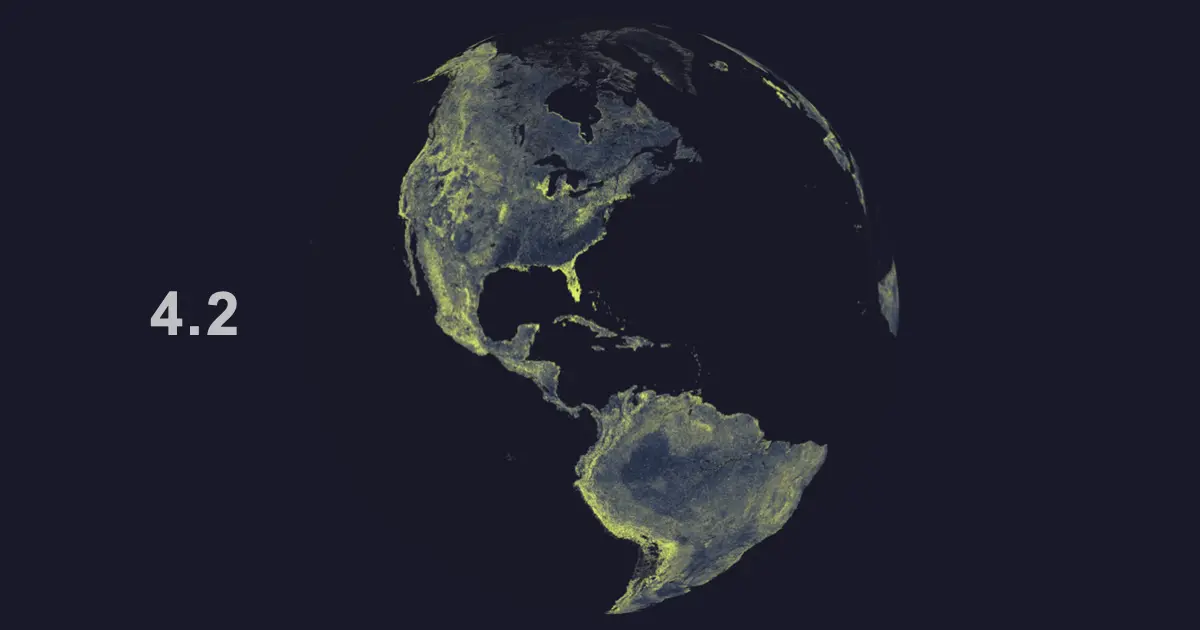
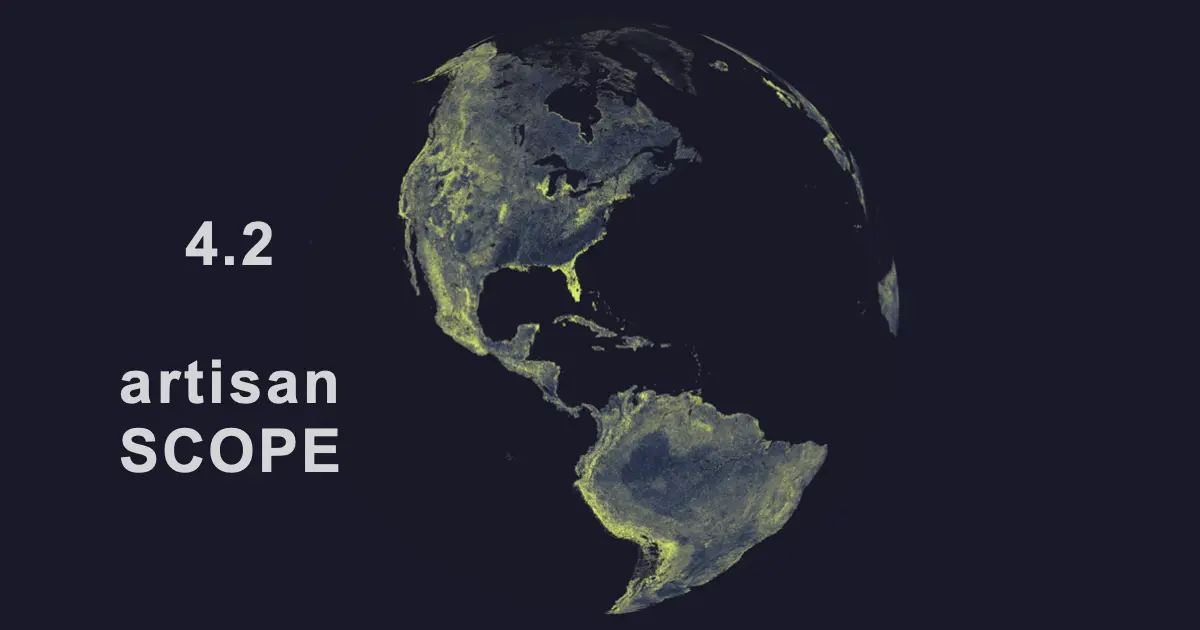
v4.2

Changed region(s): [[0.0925, 0.573, 0.2775, 0.754], [0.1542, 0.3317, 0.2467, 0.4222], [0.1233, 0.4524, 0.2158, 0.5429]]

diff --git a/index.html b/index.html
@@ -7,7 +7,7 @@ header:
   overlay_image: /assets/images/teaser.webp
   show_overlay_title: false
   caption: #'doubleshot'
-excerpt: 'v4.0.2{::nomarkdown}<iframe title="Artisan Version" style="display: inline-block;"  frameborder="0" scrolling="0" width="60px" height="120px"></iframe>{:/nomarkdown}'
+excerpt: 'v4.2.0{::nomarkdown}<iframe title="Artisan Version" style="display: inline-block;"  frameborder="0" scrolling="0" width="60px" height="120px"></iframe>{:/nomarkdown}'
 intro:
   - excerpt: '[<span style="color: #4C97C3;">sign up for <b>artisan.plus</b></span>](https://artisan.plus/en/register) <span style="color: #4C97C3;">
 <BR><BR>[Install Now](/download/){: .btn .btn--success .btn--large} &ensp; [Guide](/docs/quick-start-guide/){: .btn .btn--success .btn--large}

diff --git a/_posts/2026-06-30-Artisan-v4.2.md b/_posts/2026-06-30-Artisan-v4.2.md
@@ -1,0 +1,127 @@
+---
+header:
+  image: /assets/images/posts/2026-06-30-Artisan-v4.2.webp
+  teaser: /assets/images/posts/2026-06-30-Artisan-v4.2-teaser.webp
+  og_image: /assets/images/posts/2026-06-30-Artisan-v4.2-teaser.webp
+title: "Artisan v4.2"
+excerpt: "New Release"
+author_profile: false
+date: 2026-06-30
+categories:
+  - release
+tags:
+  - artisan
+  - artisan.plus
+link: https://artisan-scope.org/
+---
+
+This release has been sponsored by [LABEL!STEN](https://labelisten.com/). The number one digital packaging solution for coffee roasters. They have no minimum order quantity and deliver lightning fast.
+
+<a href="https://labelisten.com/">
+<img src="{{ site.baseurl }}/assets/images/labelisten-logo.svg" width="60%"></a>
+{: .text-center}
+
+[Orbiter](https://orbiter.coffee/) served as a machine sponsor. They produce the beautiful Orbiter OB-1 PRO 1.2kg electric Smart Roaster, which is now fully supported by Artisan. 
+
+<a href="https://orbiter.coffee/">
+<img src="{{ site.baseurl }}/assets/images/orbiter-logo.svg" width="60%"></a>
+{: .text-center}
+
+
+The following individuals and operations (in no particular order) did support the development of this version with their donations:   
+
+<sub>
+*Theodore Griffith, Edward Manz, Gary Tree, Daniel Oliver, [OKRO Roastery](https://www.instagram.com/okroroastery/){:target="_blank"}, Bart and Jill Milner, [juliendefago-lab](https://github.com/juliendefago-lab){:target="_blank"}, Jose Paez Rodriguez, Nattapong Thaipanit, Mark Bush, Ars Antiqua Audio, Fumihito Shiono ([THE COFFEESHOP](https://www.thecoffeeshop.jp){:target="_blank"}), Eberhard König, Erick Jose Lopez Arteta, Alex Kolankiewicz, David Stomski, Nelson Lourenco, Jeffrey Gregory, Michael Hays, Derek Arnold, Mohamed Noor, Richard Fox, Jose Alvarez ([Literal Coffee](https://www.instagram.com/literalcoffee/){:target="_blank"}), Joseph ([D'Leon](https://dleoncoffee.com/){:target="_blank"}), [Vanik922](https://github.com/Vanik922){:target="_blank"}, Scott MacLeod, Lisamarie and Andrew ([Howlin Owl Roasters](https://www.howlinowlcoffee.com/){:target="_blank"}), Jorge Andres Duque Zuluaga ([Colombia Finca la Fe ML/Les](https://www.instagram.com/finca_lafe_colombia/){:target="_blank"}), Graham Lamb, Cricket Cerino Burget ([Fabo Koffie](https://fabokoffie.be/){:target="_blank"}), Suzanne Cabral, Linda Licht, Jose Maria Fernandez, Danila Giarola and Roberto Carlos Bernardo Rocha ([Cafeteria Terroir Mineiro](https://www.instagram.com/cafeteriaterroirmineiro/){:target="_blank"}), Justin Gaudoin, Erik Herrmann, William James, Richard Williams, Gianfranco Azzarone, Eric Dreher, Nick Batcheller and Don Batcheller ([Rainshadow Coffee Roasting Company](https://www.rainshadowcoffee.com/){:target="_blank"}), Michael Mathis, Arize Consulting LLC, George Baxter, Vernon Patterson, Ian Duffy, Gregory Heath, Guélor Horion, Alan Swafford, Sinisa Novakovic, Rosarin Russell ([Súrr Coffee Roasters](https://www.surrcoffeeroasters.com/){:target="_blank"}), Helen Mueller ([Craic Coffee Roasters](https://www.instagram.com/craic_coffee/){:target="_blank"}), Robert Kirkwood, Jian Zhu, JoyUs Productions, Matthew Buller, Wolfgang May ([Loos](https://www.kaffeeroesterei-loos.de/){:target="_blank"}), Franklin Bastian, Chris Clark, Darren Randell ([Dark Star Coffee Roasters](https://www.darkstarcoffeeroasters.com/){:target="_blank"}), Farnaz Seifi, Stephan Wiederkehr, Alexander Shlyapkin, Roger Chapa, Adam and Briana Moore ([Red Light Roastery](https://www.redlightroastery.com/){:target="_blank"}), Rene Garcia, John Roberston ([FC Roast](https://fcroast.com/){:target="_blank"}), 山本裕之, Silas Patlove, Paul Johnston, Liang Cruise and [Backblocks](https://github.com/Backblocks).*</sub>
+
+We would like to express our deepest gratitude to those who have consistently supported this project, joining the growing list of dedicated contributors:    
+
+<sub>
+*Wen Tai Tan, Barry Ro, [lookingafar](https://github.com/lookingafar){:target="_blank"}, Norman Hardy, [Evette Eickelmann](https://github.com/msevette), Bruce Dillingham, [Crozatman](https://github.com/Crozatman), Manuel ([Caffe Terzi](http://www.caffeterzi.it){:target="_blank"}), Doug Leblanc, JP Salvat ([Paco’s Coffee](https://pacoscoffee.com/)), Mark Kelley, [j-berg](https://github.com/j-berg), Rick Groszkiewicz ([Software Polish](https//www.softwarepolish.com){:target="_blank"}), Timothy Graham, [bodhi-pi](https://github.com/bodhi-pi), Theodore Griffith, Joshua Wright, Kenneth Davids ([Coffee Review Books](https://www.kennethdavidscoffee.com/){:target="_blank"}), Rene Garcia, [Wilson Wong](https://github.com/bodhi-pi), Gregory Cipov, Gary Tree, Nik Hawks ([Gristle King](https://gristleking-blog.pages.dev/)), Tomoaki Nakamura ([TOMO's ROASTERY](https://tomosroastery.com/){:target="_blank"}), Donald Burnham, Michael Makowski, Alessandro Domeniconi, Charles Walker and Doug Leblanc.*</sub>
+
+This time the donations came from all over the planet, including the United Arab Emirates, Australia, Belgium, Brazil, Canada, Switzerland, Colombia, Germany, Spain, France, Ireland, Israel, Italy, Japan, Mexico, Nicaragua, New Zealand, Peru, Singapore, Thailand, Taiwan, the UK, and the US. Single donations did range from 0,20.- EUR to 300.- EUR. 25.- EUR on average. Almost 9 cents per download.
+
+The Artisan project relies on donations from individuals and companies who value Artisan for its impact on their customers, work, or personal lives. If you're interested in supporting this project, consider making a donation. And for an even more rewarding experience, consider becoming an artisan.plus member!
+
+# THANK YOU!
+{: style="color: #4C97C3;" }
+
+Thank you for your support and your encouraging messages like this one. 
+
+<img src="{{ site.baseurl }}/assets/images/posts/user-message.webp">
+{: .text-center}
+
+Artisan v4.0: +40k downloads. Wow!
+
+<br>
+
+# What is new?
+{: style="color: #4C97C3;" }
+
+## Connectivity
+{: style="color: #4C97C3;" }
+
+We worked together with the ROEST team to connect Artisan as well as our [artisan.plus](https://artisan.plus) platform to the [ROEST platform](https://www.roestcoffee.com/). Users of [ROEST](https://artisan-scope.org/machines/roest/) machines can log their roasts with Artisan and manage their inventory on artisan.plus. This works also for their new P3000 machine!
+
+<a href="https://artisan-scope.org/machines/roest/">
+<img src="{{ site.baseurl }}/assets/images/roest.jpg" width="60%"></a>
+{: .text-center}
+
+The communication with the ROEST platform is using the [MQTT protocol](https://artisan-scope.org/devices/mqtt/). Thus we added a generic MQTT layer to Artisan the very same way we did for MODBUS, Siemens S7, and WebSockets before.
+
+<a href="https://artisan-scope.org/devices/mqtt/">
+<img src="{{ site.baseurl }}/assets/images/mqtt-logo.webp" width="60%"></a>
+{: .text-center}
+
+We also added a tight integration with the OB-1 PRO from our machine sponsor [Orbiter](https://artisan-scope.org/machines/orbiter/). Check out this nice initial review of this brand-new 1.2kg machine.
+
+{% include video id="Cor_Wx6-SsE" provider="youtube" %}
+
+Further, we added support for machines of [Pratter](https://artisan-scope.org/machines/pratter/), [Neuhaus Neotec](https://artisan-scope.org/machines/neuhaus/), [North Roasters](https://artisan-scope.org/machines/north/), the refurbished machines of [Schuilenburg](https://artisan-scope.org/machines/schuilenburg/) as well as the latest generation of [Probats G/UG 2026 series](https://artisan-scope.org/machines/probat/) which got updated this year with new software communicating via WebSockets as their P series machines.
+
+
+## Core
+{: style="color: #4C97C3;" }
+
+We hardened the core of Artisan by adding validation of profiles and settings on load. The community contributed Bulgarian localization (thanks, Alex!) and reported many small issues in previous versions, which we fixed and complemented with small UI improvements.
+
+
+## RoastGuard
+{: style="color: #4C97C3;" }
+
+It is generally accepted that when multiple roasts of the same green lot achieve the same roasting parameters, they can be considered effectively interchangeable. 
+
+[<img src="{{ site.baseurl }}/assets/images/posts/2026-06-26-RoastGuard_teaser.webp" width="40%">]({% post_url 2026-06-26-RoastGuard %})
+{: .text-center}
+
+Our newest [artisan.plus](https://artisan.plus){:target="_blank"} feature, [RoastGuard](https://artisan-scope.org/release/RoastGuard/){:target="_blank"}, takes this principle and turns it into a tool for managing quality control processes.
+
+
+<br>
+
+
+<a href="https://artisan-scope.org/download/">
+<img src="{{ site.baseurl }}/assets/images/Download-button-brand-blue.svg" width="30%"></a>
+{: .text-center}
+
+
+<b>
+
+## Supported Platforms
+{: style="color: #4C97C3;" }
+
+The platforms supported by Artisan v4.2 are
+
+- macOS 14 Sonoma and newer on ARM (Apple Silicon) 
+- macOS 13 Ventura and newer on Intel (x86-64)
+- Windows 10 and newer on Intel (x86-64)
+- RedHat 8.6 and newer
+- Ubuntu 24.04 and newer
+- Linux glibc>=2.39
+- Raspberry Pi OS 13 Trixie
+
+
+Happy Roasting!
+
+
+
+

diff --git a/_pages/download.md b/_pages/download.md
@@ -11,18 +11,18 @@ author_profile: false
 
 
 gallery:
-  - url: https://github.com/artisan-roaster-scope/artisan/releases/download/v4.0.2/artisan-win-x64-4.0.2-setup.exe
+  - url: https://github.com/artisan-roaster-scope/artisan/releases/download/v4.2.0/artisan-win-x64-4.2.0-setup.exe
     image_path: /assets/images/download-icon-windows.svg
     alt: "Windows"
     title: "Windows"
-  - url: https://github.com/artisan-roaster-scope/artisan/releases/download/v4.0.2/artisan-mac-arm-4.0.2.dmg
+  - url: https://github.com/artisan-roaster-scope/artisan/releases/download/v4.2.0/artisan-mac-arm-4.2.0.dmg
     image_path: /assets/images/download-icon-macos-arm.svg
     alt: "macOS ARM"
     title: "macOS ARM"
     
 
 gallery_legacy:
-  - url: https://github.com/artisan-roaster-scope/artisan/releases/download/v4.0.2/artisan-mac-intel-4.0.2.dmg
+  - url: https://github.com/artisan-roaster-scope/artisan/releases/download/v4.2.0/artisan-mac-intel-4.2.0.dmg
     image_path: /assets/images/download-icon-macos-intel.svg
     alt: "macOS Intel"
     title: "macOS Intel"
@@ -30,7 +30,7 @@ gallery_legacy:
     image_path: /assets/images/download-icon-linux.svg
     alt: "Linux"
     title: "Linux"
-  - url: https://github.com/artisan-roaster-scope/artisan/releases/download/v4.0.2/artisan-linux-4.0.2_PiOS64-trixie.deb
+  - url: https://github.com/artisan-roaster-scope/artisan/releases/download/v4.2.0/artisan-linux-4.2.0_PiOS64-trixie.deb
     image_path: /assets/images/download-icon-rpi-trixie.svg
     alt: "RPi Trixie"
     title: "RPi Trixie"
@@ -39,12 +39,12 @@ gallery_legacy:
 ---
 
 <p style="text-align:left;">
-    <a href="https://artisan-roasterscope.blogspot.com/2026/01/artisan-4.html">Release Notes</a>
+    <a href="https://artisan-scope.org/release/Artisan-v4.2/">Release Notes</a>
     <span style="float:right;">
         <img fetchpriority="high" src="https://img.shields.io/github/downloads/artisan-roaster-scope/artisan/latest/total?logo=github&amp;label=downloads&amp;color=f5f5f5&amp;labelColor=9C9C9C&amp;style=flat" alt="Github Latest Releases" class="align-right" />
     </span>
 </p>
-**artisan 4.0.2**
+**artisan 4.2.0**
 {: style="color: #4C97C3; font-size: larger; text-align: center; font-weight:bold;" }
 ---
 Help keep **<span style="color: #4C97C3;">artisan</span>** free for personal and commercial use by [sending a donation](/donate) 
@@ -71,8 +71,8 @@ Help keep **<span style="color: #4C97C3;">artisan</span>** free for personal and
 ---
 
 <figure>
-      <a aria-label="Release Sponsor artisan.plus" target="_blank" href="https://artisan.plus" title="artisan.plus">
-          <img src="/assets/images/artisan-plus.webp" alt="artisan.plus" 
+      <a aria-label="Release Sponsor LABEL!STEN" target="_blank" href="https://labelisten.com/" title="LABEL!ISTEN">
+          <img src="/assets/images/labelisten-logo.svg" alt="LABEL!ISTEN logo" 
            loading="lazy"
            fetchpriority="low"
            decoding="async"

diff --git a/_pages/download-linux.md b/_pages/download-linux.md
@@ -10,15 +10,15 @@ author: Marko Luther
 author_profile: false
 
 gallery:
-  - url: https://github.com/artisan-roaster-scope/artisan/releases/download/v4.0.2/artisan-linux-4.0.2.AppImage
+  - url: https://github.com/artisan-roaster-scope/artisan/releases/download/v4.2.0/artisan-linux-4.2.0.AppImage
     image_path: /assets/images/download-icon-linux-AppImage.svg
     alt: "Linux AppImage"
     title: "Linux AppImage"
-  - url: https://github.com/artisan-roaster-scope/artisan/releases/download/v4.0.2/artisan-linux-4.0.2.deb
+  - url: https://github.com/artisan-roaster-scope/artisan/releases/download/v4.0.2/artisan-linux-4.2.0.deb
     image_path: /assets/images/download-icon-linux-deb.svg
     alt: "Linux deb"
     title: "Linux deb"
-  - url: https://github.com/artisan-roaster-scope/artisan/releases/download/v4.0.2/artisan-linux-4.0.2.rpm
+  - url: https://github.com/artisan-roaster-scope/artisan/releases/download/v4.0.2/artisan-linux-4.2.0.rpm
     image_path: /assets/images/download-icon-linux-rpm.svg
     alt: "Linux rpm"
     title: "Linux rpm"
@@ -31,12 +31,12 @@ gallery:
 ---
 
 <p style="text-align:left;">
-    <a href="https://artisan-roasterscope.blogspot.com/2026/01/artisan-4.html">Release Notes</a>
+    <a href="https://artisan-scope.org/release/Artisan-v4.2/">Release Notes</a>
     <span style="float:right;">
         <img fetchpriority="high" src="https://img.shields.io/github/downloads/artisan-roaster-scope/artisan/latest/total?logo=github&amp;label=downloads&amp;color=f5f5f5&amp;labelColor=9C9C9C&amp;style=flat" alt="Github Latest Releases" class="align-right" />
     </span>
 </p>
-**artisan 4.0.2**
+**artisan 4.2.0**
 {: style="color: #4C97C3; font-size: larger; text-align: center; font-weight:bold;" }
 ---
 Help keep **<span style="color: #4C97C3;">artisan</span>** free for personal and commercial use by [sending a donation](/donate) 
@@ -60,8 +60,8 @@ Help keep **<span style="color: #4C97C3;">artisan</span>** free for personal and
 ---
 
 <figure>
-      <a aria-label="Release Sponsor artisan.plus" target="_blank" href="https://artisan.plus" title="artisan.plus">
-          <img src="/assets/images/artisan-plus.webp" alt="artisan.plus" 
+      <a aria-label="Release Sponsor LABEL!STEN" target="_blank" href="https://labelisten.com/" title="LABEL!ISTEN">
+          <img src="/assets/images/labelisten-logo.svg" alt="LABEL!ISTEN logo" 
            loading="lazy"
            fetchpriority="low"
            decoding="async"

diff --git a/_pages/about.md b/_pages/about.md
@@ -256,7 +256,13 @@ We believe in [open-source](https://www.youtube.com/watch?v=SpeDK1TPbew){:target
 __[Marko Luther](/authors/luther/)__ –– maintainer
 {: style="text-align: center;" }
 
-__[Dave Baxter](/authors/baxter/)__ –– design wizard, genius & CI
+__[Paul Holleis](/authors/holleis/)__ –– cloud architect
+{: style="text-align: center;" }
+
+__[Liam Robichaud](/authors/robichaud/)__ –– creative director
+{: style="text-align: center;" }
+
+__[Dave Baxter](/authors/baxter/)__ –– genius & CI
 {: style="text-align: center;" }
 
 __[Michael Herbert](/authors/herbert/)__ –– documentation & fundraising
@@ -290,6 +296,7 @@ Contact us via the [Contact Form](https://artisan-roasterscope.blogspot.com/p/co
 Language  | Translators
 ------------- | -------------
 CN  | Leo Huang, Lewis Li, Terracotta-6
+BG  | Alex Yovev
 DE  | MAKOMO
 ES  | Juan Carlos Bonilla
 FA  | Saeed Abdinasab

diff --git a/_posts/2026-01-30-Artisan-v4.0.md b/_posts/2026-01-30-Artisan-v4.0.md
@@ -3,7 +3,7 @@ header:
   image: /assets/images/posts/2026-01-30-Artisan-v4.0.webp
   teaser: /assets/images/posts/2026-01-30-Artisan-v4.0-teaser.webp
   og_image: /assets/images/posts/2026-01-30-Artisan-v4.0-teaser.webp
-title: "Artisan 4"
+title: "Artisan v4"
 excerpt: "New Release"
 author_profile: false
 date: 2026-01-30